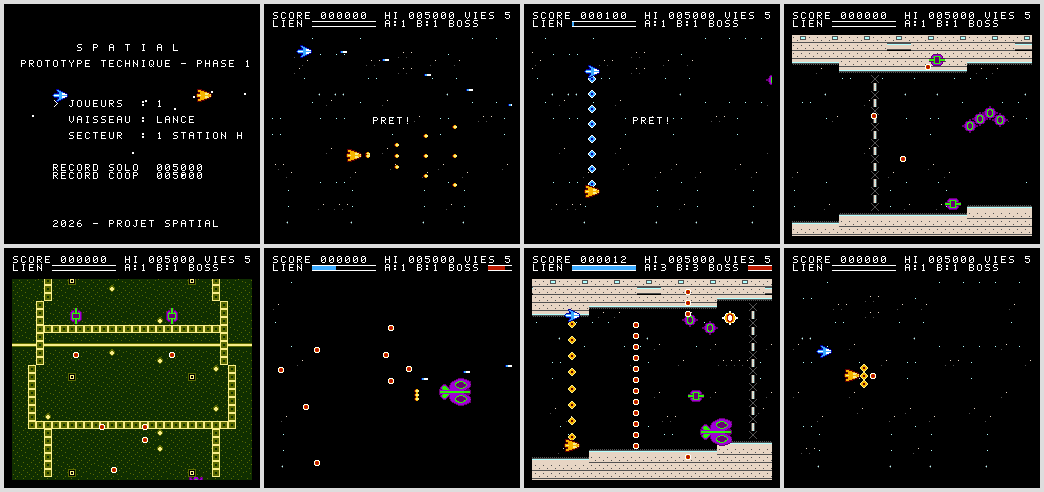
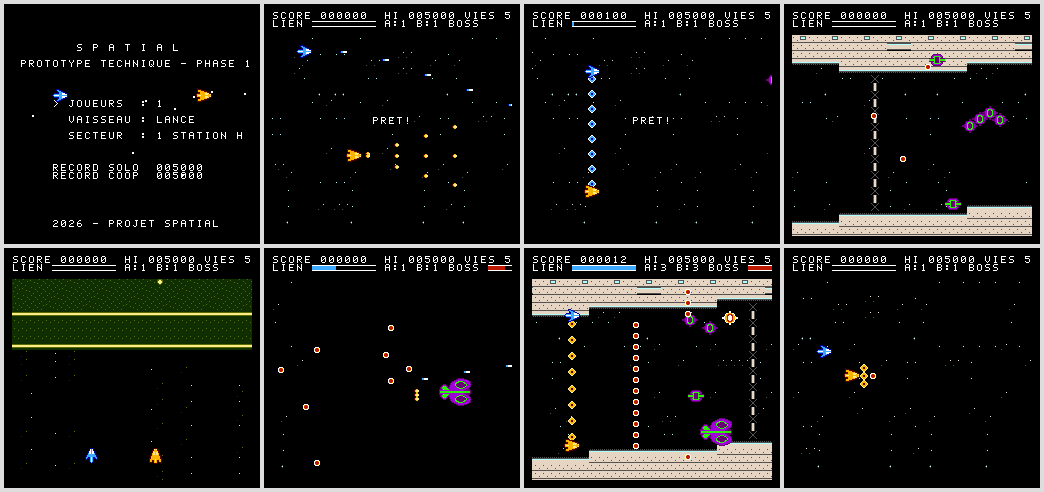
Correction : tuiles des vaisseaux en niveau vertical
L'index de ship_tiles etait decale (asl superflu) : en vertical LANCE
affichait la tuile 0 et EGIDE des tuiles hors table. Test T25 ajoute
(controle des tuiles OAM en H et V), capture du defilement vertical.

Claude-Session: https://claude.ai/code/session_01Y3u37cTDTV9wzvajE2uCuY

Changed region(s): [[0.0, 0.5488, 0.2452, 0.9756]]

diff --git a/tests/run_tests.js b/tests/run_tests.js
@@ -458,6 +458,30 @@ test("T24", "Capacite propre EGIDE : bouclier frontal absorbant 4 projectiles", 
   return { ok: on > 0 && absorbed === 4 && diedAfter, detail: `bouclier actif=${on > 0}, absorbes=${absorbed}/4, 5e projectile touche=${diedAfter}` };
 });
 
+test("T25", "Affichage : tuiles des vaisseaux conformes a l'orientation (H et V)", () => {
+  const res = [];
+  for (const sector of [0, 1]) {
+    const m = startGame({ players: 2, sector });
+    m.frame(100, (mm) => {
+      mm.poke("pl_invul", 0); mm.poke("pl_invul", 0, 1);
+      for (let i = 0; i < 10; i++) mm.poke("en_type", 0, i);
+      for (let i = 0; i < 16; i++) { mm.poke("eb_on", 0, i); mm.poke("pb_on", 0, i); }
+    });
+    const tbl = m.s("ship_tiles");
+    const a = m.romByte(tbl + sector), b = m.romByte(tbl + 4 + sector);
+    const oam = m.nes.cpu.mem.slice(0x200, 0x300);
+    const rel = new Set();
+    for (let i = 0; i < 64; i++) {
+      if (oam[i * 4] >= 239 || oam[i * 4 + 2] > 1) continue;
+      rel.add((oam[i * 4 + 2] ? "B" : "A") + (oam[i * 4 + 1] - (oam[i * 4 + 2] ? b : a)));
+    }
+    const ok = a >= 0x80 && b >= 0x80 && ["A0", "A1", "A2", "A3", "B0", "B1", "B2", "B3"].every((k) => rel.has(k)) && rel.size === 8;
+    res.push({ o: sector ? "V" : "H", a, b, ok });
+    if (sector) m.screenshot(path.join(SHOTS, "05_secteur2_vertical.png"));
+  }
+  return { ok: res.every((r) => r.ok), detail: res.map((r) => `${r.o}: LANCE $${r.a.toString(16)} EGIDE $${r.b.toString(16)} ${r.ok ? "ok" : "ERREUR"}`).join(", ") };
+});
+
 test("T22", "Compilation reproductible : deux constructions identiques octet pour octet", () => {
   const { execSync } = require("child_process");
   const rom = path.join(ROOT, "build", "spatial.nes");

diff --git a/docs/RESULTATS_TESTS.md b/docs/RESULTATS_TESTS.md
@@ -3,7 +3,7 @@
 > Fichier genere par `tests/run_tests.js`. **Tous ces tests sont realises en EMULATION (jsnes 1.2.1, NTSC).**
 > Aucun test sur materiel reel n'a ete effectue a ce stade.
 
-Resultat : **24/24** reussis.
+Resultat : **25/25** reussis.
 
 | ID | Test | Resultat | Details |
 |---|---|---|---|
@@ -25,12 +25,13 @@ Resultat : **24/24** reussis.
 | T16 | Musique : sequence jouee sur pulse 1/2, triangle, bruit et DPCM | OK | ecritures periode P1=22 P2=89 TRI=39 BRUIT=39, declenchements DPCM=15, registres APU utilises=19 |
 | T17 | Effets sonores : plusieurs SFX distincts declenches en jeu | OK | 6 effets distincts : SHOT_A, SHOT_B, HIT, EXPLODE, POWERUP, BEAM |
 | T18 | Sauvegarde : record ecrit en PRG-RAM, relu apres coupure, copie corrompue toleree | OK | signature=SPTL, relu=042420, copie A corrompue -> 042420, vierge -> 005000 |
-| T19 | Performances : scene chargee (2 joueurs niv.3, 10 ennemis, 16 tirs ennemis, boss, faisceau) | OK | vblank utilise max=1237/2273 cycles, cycles/image max=28090 moy=24545 (budget NTSC 29780 = 94 %), images perdues=0, sprites/ligne max=10, images avec >8 sprites/ligne=296/595, OAM saturee=599 |
-| T20 | Performances : partie normale (secteur 1 complet a 2 joueurs) | OK | cycles/image max=19901 moy=13815, images perdues=0, vblank utilise max=1237/2273 cycles |
+| T19 | Performances : scene chargee (2 joueurs niv.3, 10 ennemis, 16 tirs ennemis, boss, faisceau) | OK | vblank utilise max=1237/2273 cycles, cycles/image max=28090 moy=24543 (budget NTSC 29780 = 94 %), images perdues=0, sprites/ligne max=10, images avec >8 sprites/ligne=296/595, OAM saturee=599 |
+| T20 | Performances : partie normale (secteur 1 complet a 2 joueurs) | OK | cycles/image max=19900 moy=13813, images perdues=0, vblank utilise max=1237/2273 cycles |
 | T21 | PAL : compensation 6/5 de la logique (cadence de jeu identique a 60 Hz) | OK | camera +600 px en 500 images a 50 Hz (attendu 600 = 10 s de jeu). Logique seule : jsnes emule uniquement le NTSC. |
 | T23 | Capacite propre LANCE : surcharge (vitesse x1.8, esquive), recharge | OK | deplacement 63px en 14 images (normal 35), indemne=true, recharge=76 images, 2e appui pendant la recharge ignore=true |
 | T24 | Capacite propre EGIDE : bouclier frontal absorbant 4 projectiles | OK | bouclier actif=true, absorbes=4/4, 5e projectile touche=true |
-| T22 | Compilation reproductible : deux constructions identiques octet pour octet | OK | sha256=42909a71839a2347... |
+| T25 | Affichage : tuiles des vaisseaux conformes a l'orientation (H et V) | OK | H: LANCE $80 EGIDE $88 ok, V: LANCE $84 EGIDE $8c ok |
+| T22 | Compilation reproductible : deux constructions identiques octet pour octet | OK | sha256=e8deb60494b40c1c... |
 
 ## Mesures
 
@@ -40,18 +41,18 @@ Resultat : **24/24** reussis.
   "maxEnemies": 10,
   "maxEnemyBullets": 9,
   "stressMaxCycles": 28090,
-  "stressAvgCycles": 24545,
+  "stressAvgCycles": 24543,
   "stressLag": 0,
   "spLineMax": 10,
   "framesOver": 296,
   "sprFull": 599,
   "stressFrames": 595,
   "stressVblankMax": 1237,
-  "normalMaxCycles": 19901,
-  "normalAvgCycles": 13815,
+  "normalMaxCycles": 19900,
+  "normalAvgCycles": 13813,
   "normalLag": 0,
   "normalVblankMax": 1237,
[2 lines of base64/hex data omitted]
   "romSize": 98320
 }
 ```
